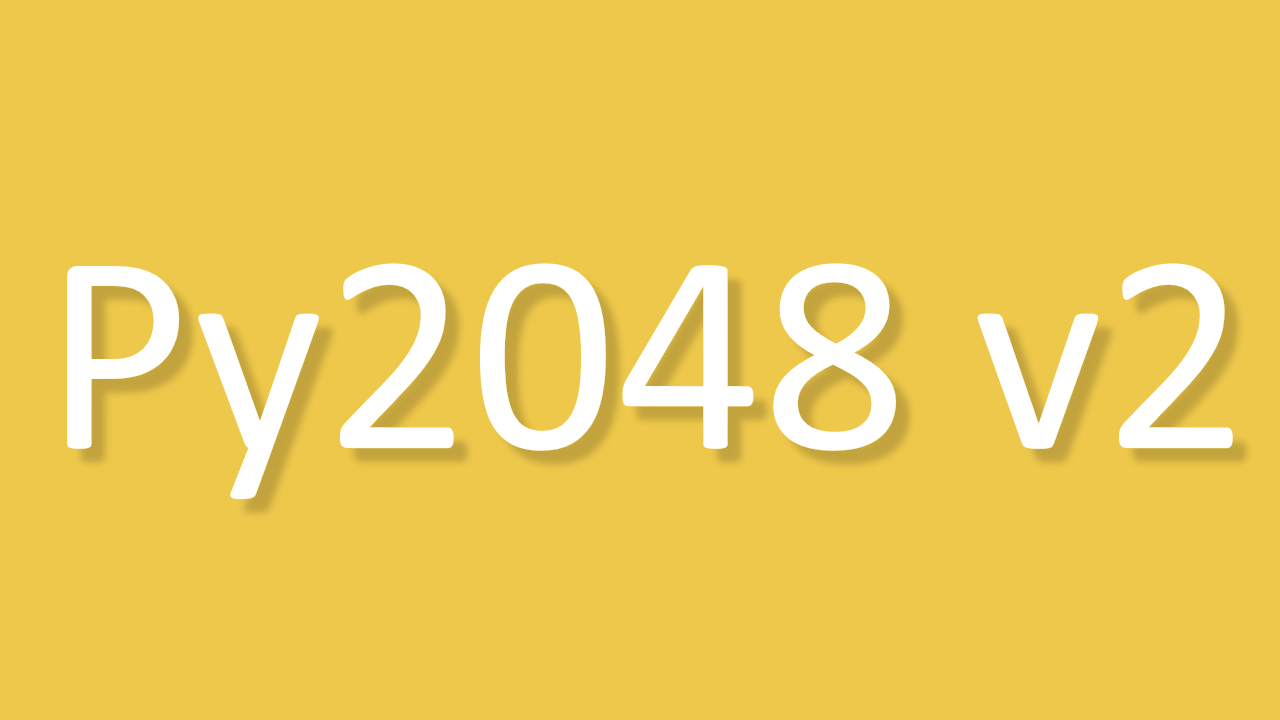
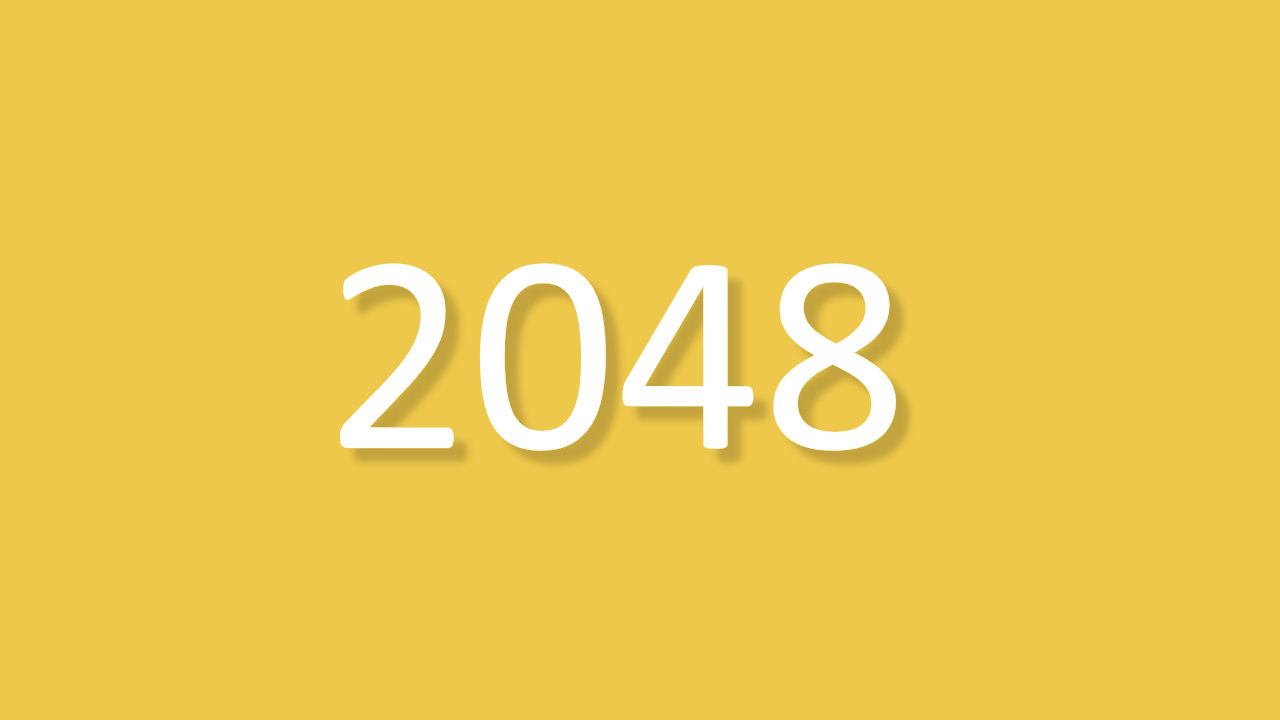
Updated thumbnails, file names

Changed region(s): [[0.0312, 0.3667, 0.2812, 0.7333], [0.75, 0.3667, 0.9688, 0.6417]]

diff --git a/_includes/showcase.html b/_includes/showcase.html
@@ -1,9 +1,9 @@
 <section class="hero is-fullheight has-text-centered" id="hero">
   <div class="hero-body">
     <div class="container">
-      <h1 class="title has-text-white is-size-1 is-uppercase has-text-weight-bold">
-        {{site.title}}
-      </h1>
+        <h1 class="title has-text-white is-uppercase has-text-weight-bold">
+          {{site.title}}
+        </h1>
       <h3 class="subtitle has-text-white-bis is-uppercase has-text-weight-medium is-marginless">
         {{site.description}}
       </h3>

diff --git a/_posts/2024-09-17-MCTS.md b/_posts/2024-09-17-MCTS.md
@@ -1,7 +1,7 @@
 ---
 title: MCTS (Deep Mind Edition)
 layout: post
-post-image: "https://github.com/ZoeyZwee/zoeyzwee.github.io/blob/master/assets/images/mcts.PNG?raw=true"
+post-image: "https://github.com/ZoeyZwee/zoeyzwee.github.io/blob/master/assets/images/MCTS.png?raw=true"
 description: A deep-dive into the Monte Carlo Tree Search, and the specific variants used by Deep Mind in AlphaGo, AlphaZero, MuZero, etc. 
 tags:
 - monte carlo tree search

diff --git a/_posts/2024-09-17-Py2048-ML-v2.md b/_posts/2024-09-17-Py2048-ML-v2.md
@@ -1,3 +1,19 @@
+---
+title: Playing 2048 with AlphaZero
+layout: post
+post-image: "https://github.com/ZoeyZwee/zoeyzwee.github.io/blob/master/assets/images/py2048v2.png?raw=true"
+description: Training an RL agent to play 2048 with MCTS
+tags:
+- monte carlo tree search
+- mcts
+- reinforcement learning
+- deep mind
+- alphazero
+- muzero
+- uct
+- 2048
+- python
+---
 
 ## Links:
 - [GitHub Repo](https://github.com/ZoeyZwee/Py2048-ML-v2)

diff --git a/_posts/2024-09-09-wisd-2024.md b/_posts/2024-09-09-wisd-2024.md
@@ -1,7 +1,7 @@
 ---
 title: WISD 2024 Hackathon - Project Overview
 layout: post
-post-image: "https://github.com/ZoeyZwee/zoeyzwee.github.io/blob/master/assets/images/baseball-swing.PNG?raw=true"
+post-image: "https://github.com/ZoeyZwee/zoeyzwee.github.io/blob/master/assets/images/baseball-swing.png?raw=true"
 description: Exploring baseball bat-tracking data, and creating a data dashboard web app with Streamlit.
 tags:
 - WISD
